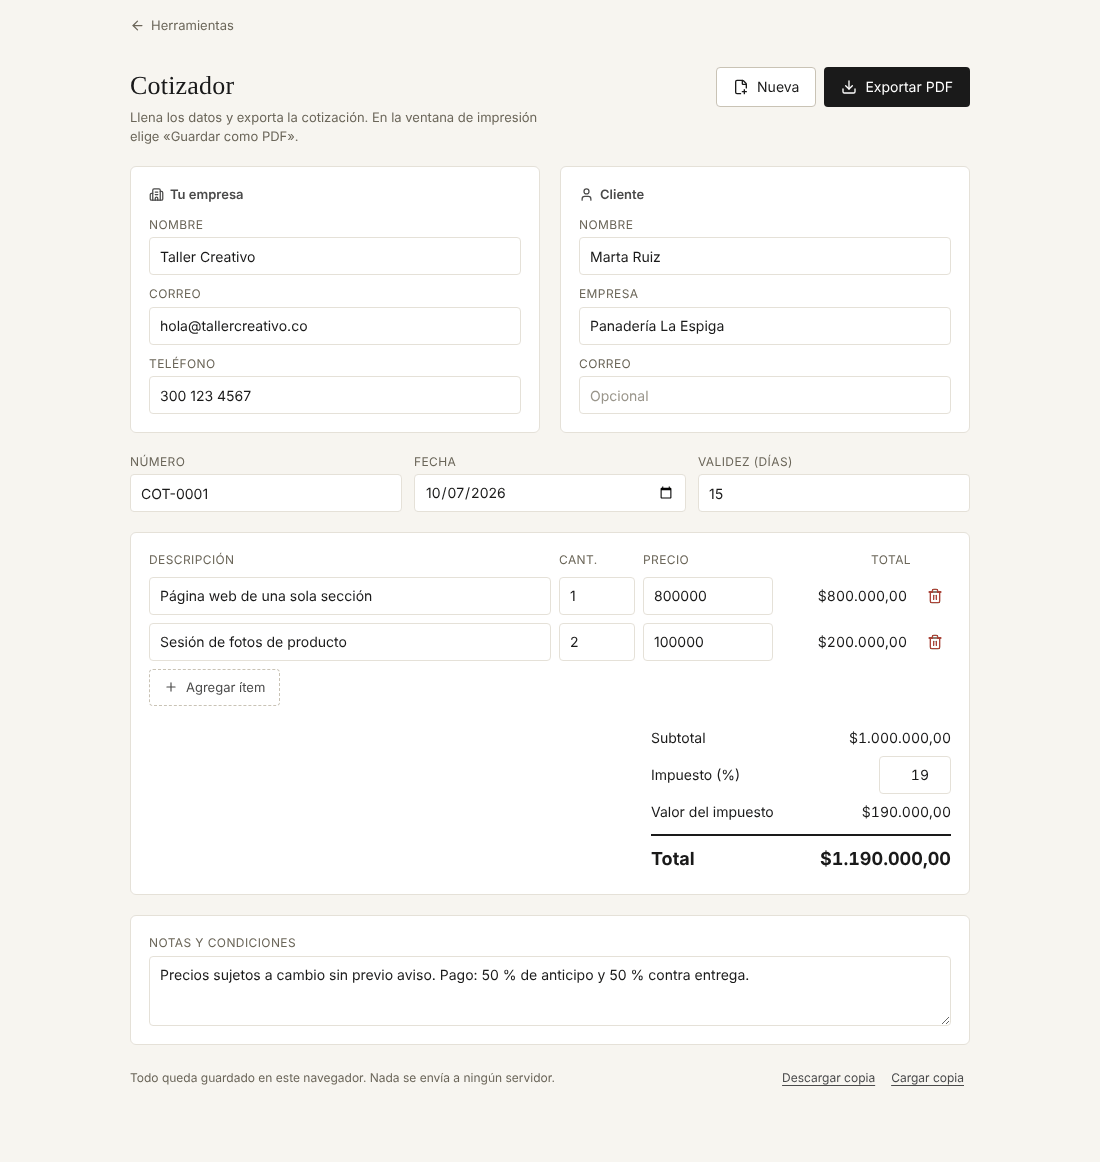
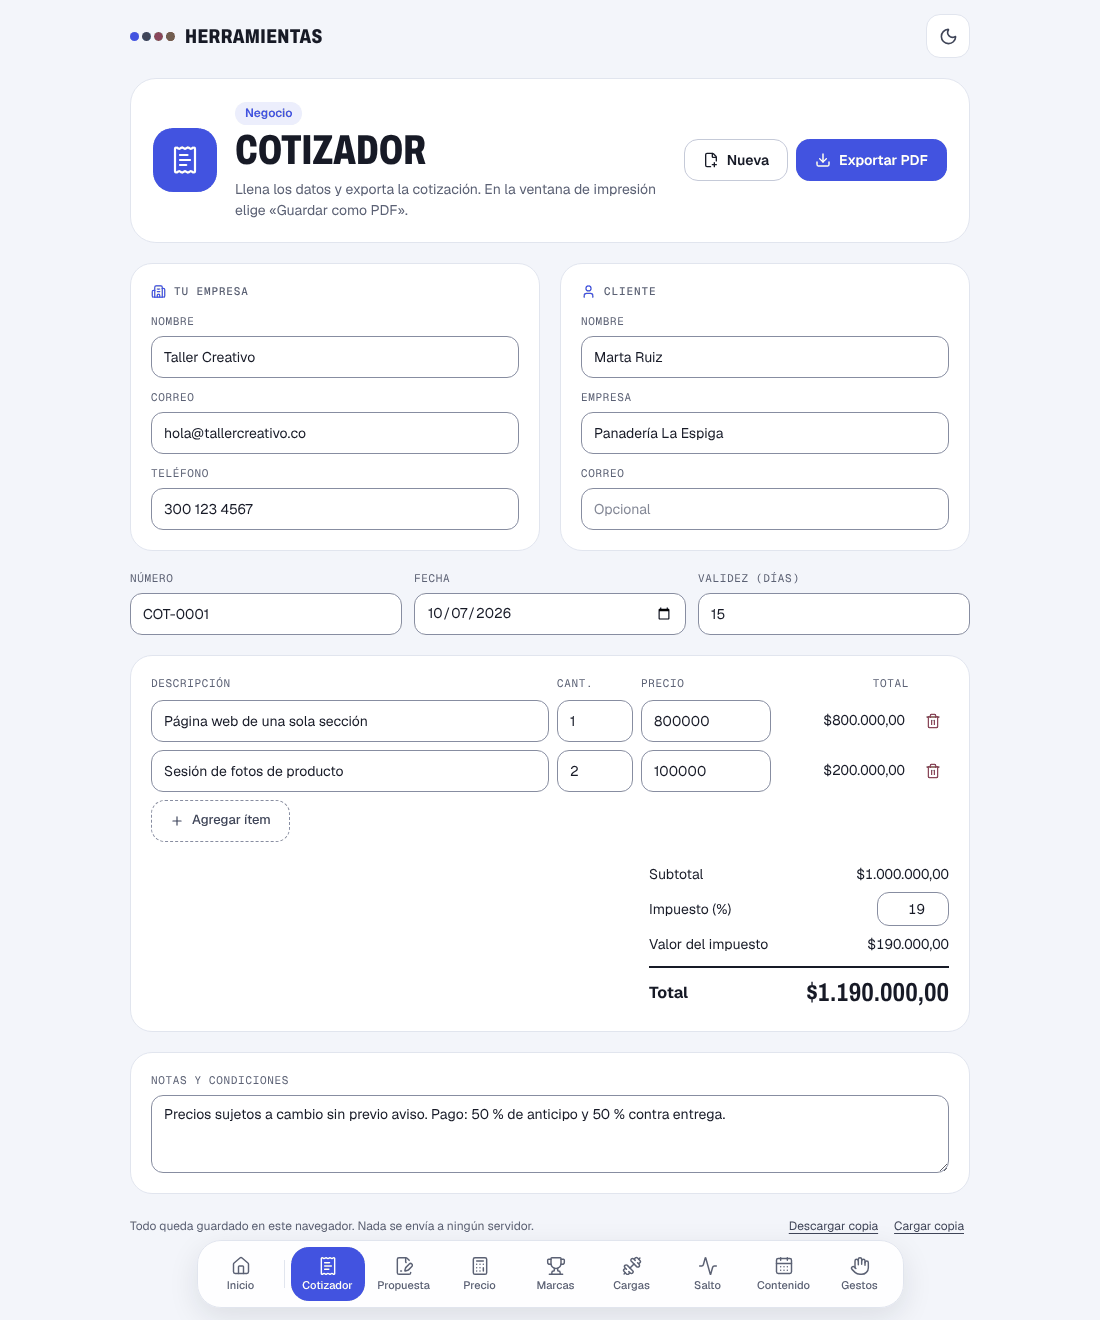
docs: capturas nuevas y README del rediseño

diff --git a/README.md b/README.md
@@ -6,6 +6,10 @@ Todas viven en un solo sitio: una página de inicio y una ruta por herramienta.
 
 **En vivo:** https://juanvasquez-herramientas.vercel.app
 
+| Tema claro | Tema oscuro |
+|---|---|
+| ![El inicio en tema claro, con las ocho herramientas](docs/inicio-claro.png) | ![El inicio en tema oscuro](docs/inicio-oscuro.png) |
+
 ## Qué hay
 
 | Herramienta | Para qué sirve | Abrir | Código |
@@ -56,7 +60,9 @@ npm run e2e
 │   ├── propuesta/
 │   └── ...
 ├── shared/                lo que usan varias herramientas
-│   ├── ui.tsx, ui.css       página, tarjeta, campo, botón, indicador, aviso y los colores
+│   ├── ui.tsx, ui.css       página, tarjeta, campo, botón, indicador, aviso y los colores de los dos temas
+│   ├── tema.ts, useTema.ts  claro u oscuro: qué manda y cómo se recuerda
+│   ├── identidad.ts         la categoría y el ícono de la herramienta abierta
 │   ├── graficos.tsx         columnas, línea y barras, dibujadas en SVG
 │   ├── documento.tsx        el membrete de los PDF
 │   ├── useGuardadoLocal.ts  un useState que no se pierde al recargar
@@ -66,9 +72,10 @@ npm run e2e
 │   ├── csv.ts, archivo.ts   exportar a Excel y descargar
 │   └── vision.ts            la carga de MediaPipe, para las dos que usan la cámara o video
 ├── src/                   el cascarón del sitio
-│   ├── herramientas.ts      el registro: de aquí salen las rutas y el inicio
-│   ├── Inicio.tsx
-│   └── MarcoHerramienta.tsx
+│   ├── herramientas.ts      el registro: de aquí salen las rutas, el inicio y la barra de abajo
+│   ├── Marco.tsx            lo que no cambia entre pantallas: las dos barras y la entrada animada
+│   ├── MarcoHerramienta.tsx le pasa a cada herramienta su categoría y su ícono
+│   └── Inicio.tsx
 └── e2e/                   pruebas de punta a punta (Playwright)
 ```
 
@@ -89,13 +96,17 @@ Dentro de cada herramienta el código se parte igual:
 - **Los gráficos están hechos a mano en SVG.** Son tres tipos y una librería de gráficos pesaría más que todo el resto del sitio. Los de columnas y de línea se pueden leer con teclado y traen sus datos en una tabla.
 - **El video y la cámara no salen del equipo.** La detección corre en el navegador con MediaPipe. Lo único que se descarga es el modelo, desde los servidores de Google, la primera vez.
 - **Biome en vez de ESLint y Prettier.** Hace las dos cosas con una sola configuración y ya funciona con TypeScript 7.
+- **Dos temas con las mismas variables.** Los colores viven en variables de CSS que se definen dos veces, una por tema. Ninguna herramienta sabe en qué tema está. El tema sigue al equipo hasta que la persona elige; un script mínimo en `index.html` lo pone antes de pintar, para que no se vea un destello. Lo que se imprime sale siempre en claro.
+- **Un color por categoría.** Negocio, deporte, contenido y experimentos tienen cada uno su color, y cada pantalla lo recibe en una sola variable (`--c`). Los botones, los indicadores y los gráficos de una serie lo usan sin saber cuál es. El contraste de texto se revisó en los dos temas.
+- **Cambiar de herramienta sin volver al inicio.** La barra de abajo está en todas las pantallas. El código de cada herramienta empieza a bajar cuando el cursor pasa por su ícono, así el cambio se siente inmediato. Al cambiar, la pantalla entra con una animación corta, que se apaga si el equipo pide menos movimiento.
+- **Las fuentes van dentro del sitio.** Archivo, Geist y Geist Mono se instalan como paquetes y se sirven desde el mismo dominio. No se le pide nada a otro servidor.
 
 ## Agregar una herramienta
 
 1. Crear `apps/<nombre>/` con la pantalla como `export default`.
 2. Sacar las cuentas a un archivo aparte y escribirles pruebas.
 3. Usar lo de `shared/` en vez de copiar: `Pagina`, `Tarjeta`, `Campo`, `Boton`, `useGuardadoLocal`, `formatearDinero`.
-4. Agregarla en `src/herramientas.ts`. Con eso ya tiene ruta, aparece en el inicio y entra a las pruebas de punta a punta.
+4. Agregarla en `src/herramientas.ts` con su categoría, su ícono y un nombre corto. Con eso ya tiene ruta, color, lugar en el inicio y en la barra de abajo, y entra a las pruebas de punta a punta.
 5. Escribir su `README.md` con el problema que resuelve y una captura.
 6. `npm run check` en verde antes del commit.
 
@@ -103,7 +114,7 @@ Un cuidado con los nombres: dos archivos de la misma carpeta no pueden llamarse 
 
 ## Stack
 
-React 19, TypeScript, Vite, React Router, Vitest, Playwright y Biome. MediaPipe para la detección de postura y de gestos. GitHub Actions corre tipos, lint, pruebas y build en cada push a `main` y en cada pull request.
+React 19, TypeScript, Vite, React Router, Vitest, Playwright y Biome. MediaPipe para la detección de postura y de gestos. Tipografías Archivo, Geist y Geist Mono. GitHub Actions corre tipos, lint, pruebas y build en Linux y en Windows, y las pruebas de punta a punta, en cada push a `main` y en cada pull request.
 
 ---
 
